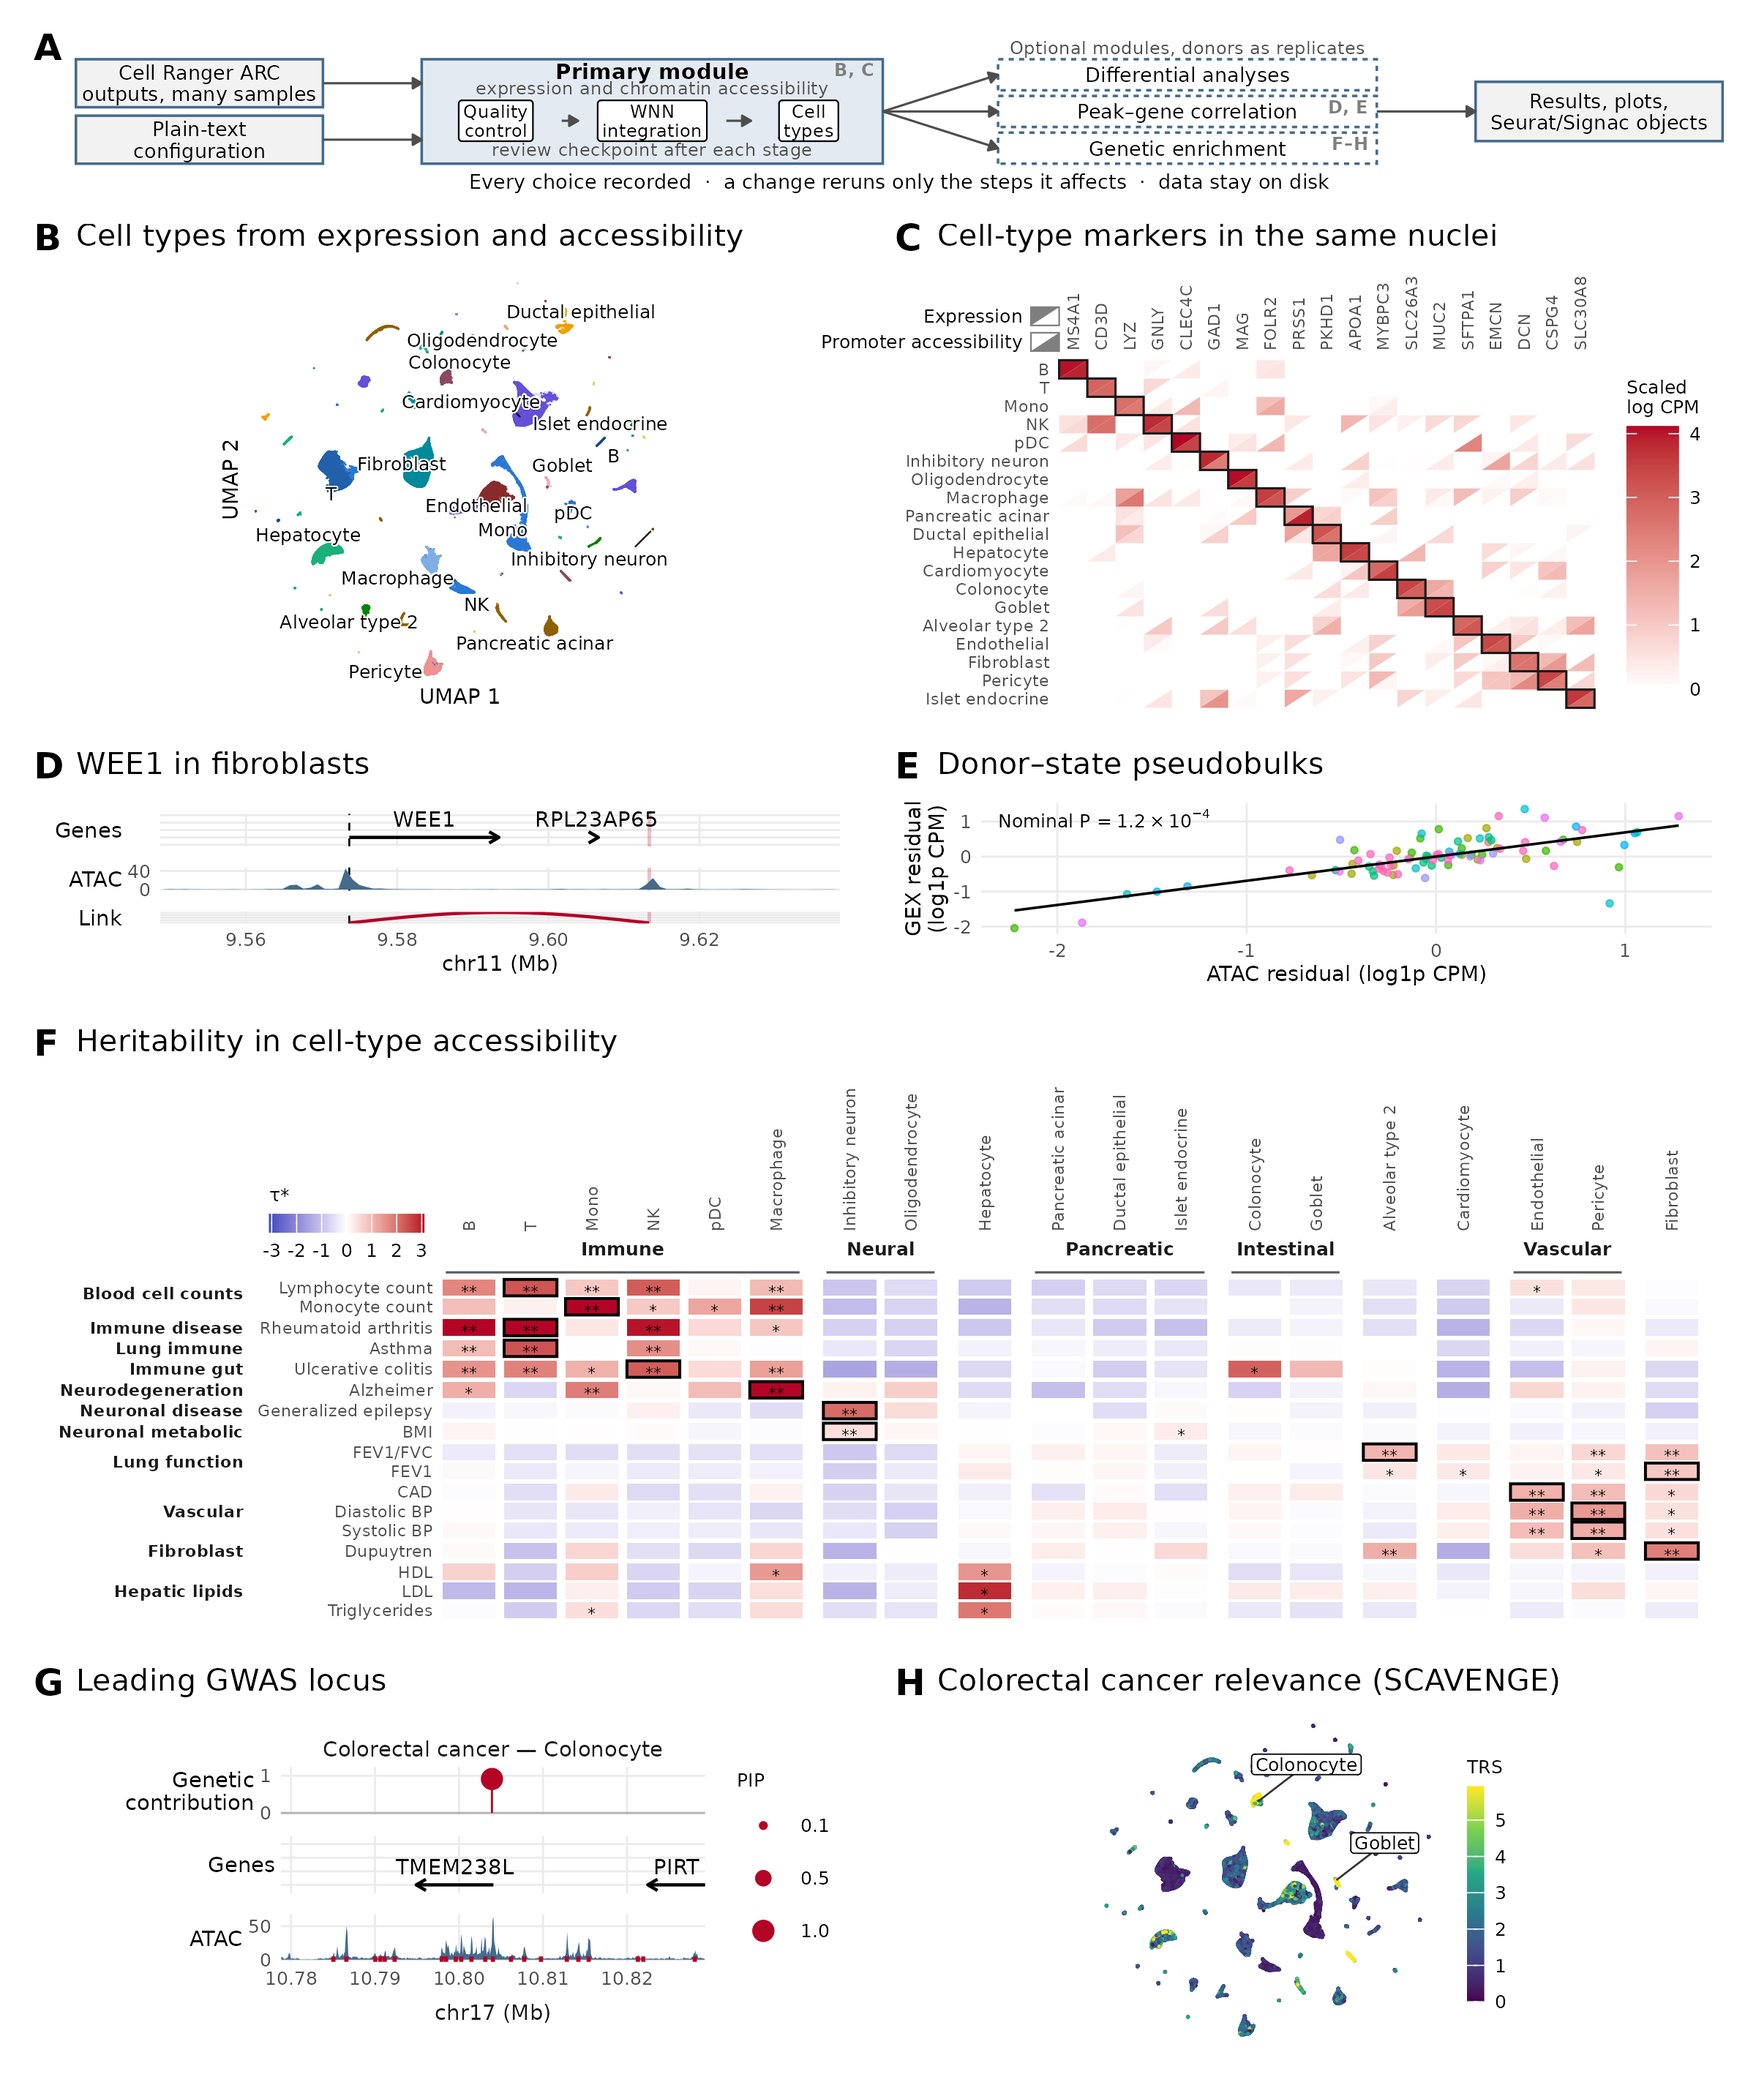
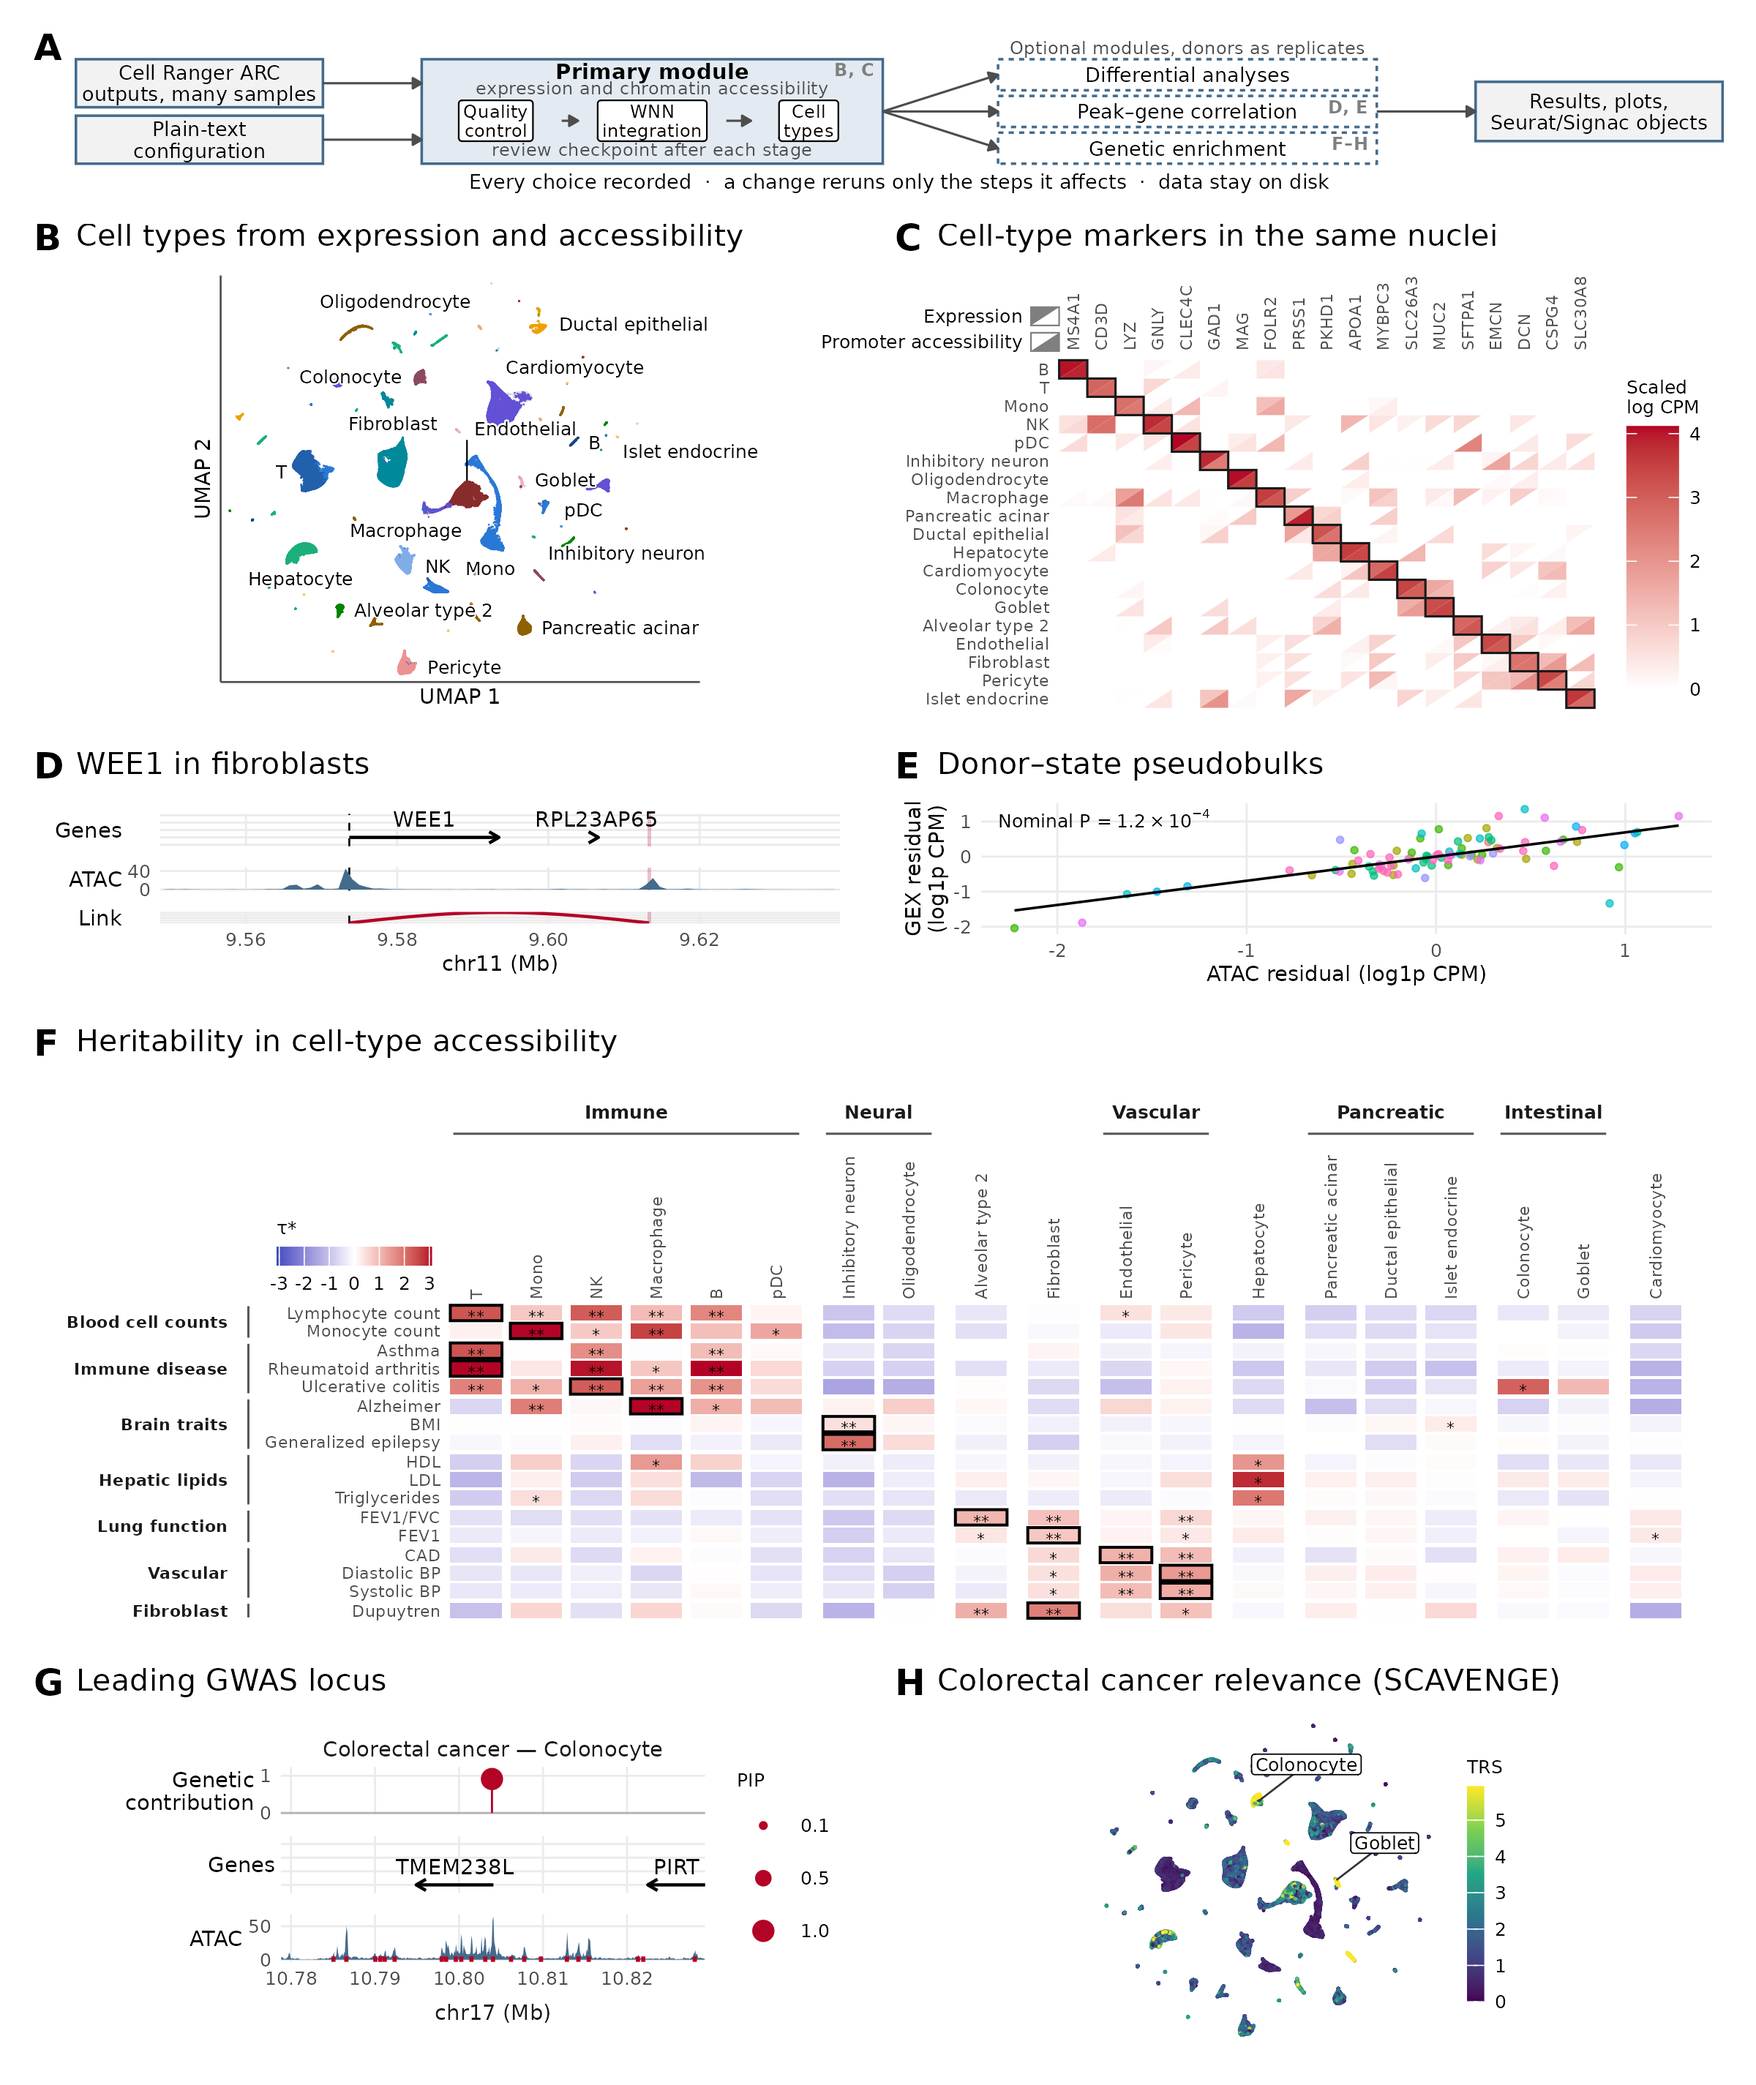
Place Figure 1 labels by island and order the trait grids by anchor
- B: each cell-type label sits on or beside its main island, the
  connected island where the cell type is the majority and that holds
  most of its nuclei. A deterministic placement keeps labels off other
  islands, other labels and leader lines, and draws a leader line only
  for the few labels that move further out. The axis titles sit next to
  short axis lines outside the data area.
- F, S5 and S6: the configured immune and brain trait categories are
  bundled into "Immune disease" and "Brain traits", and the categories
  keep a fixed row order. Compartments and their cell types follow the
  first anchor they hold, row by row, so the anchors step down from the
  top left, with unanchored compartments last. A header names each
  compartment in bold above a line over its columns, above the
  cell-type names, and a side column names each category in bold beside
  a line along its rows, left of the study names.

contained_target_breaking: figure_1_panel_UMAP.mixed_human_31x, figure_1_panel_heritability.mixed_human_31x, figure_1_plot.mixed_human_31x, figure_1.mixed_human_31x, supplementary_figure_S5.mixed_human_31x, supplementary_figure_S6.mixed_human_31x

diff --git a/pipeline_manuscript_figures/README.md b/pipeline_manuscript_figures/README.md
@@ -91,9 +91,10 @@ column names 5.5 pt; other text 6 pt.
 - **A:** a left-to-right diagram of multiomeR: inputs, the primary module's
   stages, the optional modules, outputs and the key ideas. Grey letters name the
   panels that show each module's outputs.
-- **B:** the WNN UMAP coloured by cell type in shades of its compartment, with
-  each label at the middle of its cell type's most populated cell of a coarse
-  grid, since a cell type from several tissues forms several islands.
+- **B:** the WNN UMAP coloured by cell type in shades of its compartment. Each
+  label sits on or beside its cell type's main island, the connected island that
+  holds most of its nuclei, since a cell type from several tissues forms several
+  islands; a leader line marks the few labels that had to move further out.
 - **C:** for each WNN cell type, the configured marker gene whose expression
   and promoter accessibility, in cell-type pseudobulks summed over donors and
   scaled across cell types, are most specific to it. Markers and cell types run
@@ -115,13 +116,16 @@ column names 5.5 pt; other text 6 pt.
   with unclipped scores and the cell types enriched for it labelled.
 
 Figure 1F and Supplementary Figures S5 and S6 share one grid of studies (rows)
-and assigned cell types (columns). Cell types keep their configured order within
-compartments that the figure code defines for this aggregation. Each
-compartment of several cell types is named in bold above a bracket, between the
-tiles and the cell-type names. Studies are grouped by their configured trait
-category. Each study's anchor, its largest value at q < 0.05, is boxed, and
-studies and categories follow the column of their anchor, so the anchors step
-down and to the right; studies without one come last. Stars mark P < 0.05 (\*)
+and assigned cell types (columns). Studies are grouped in a fixed order of
+trait categories, which bundles the configured immune and brain categories,
+each named in bold beside a line along its rows, left of the study names. Cell
+types are grouped in compartments that the figure code defines for this
+aggregation, each compartment of several cell types named in bold above a line
+over its columns, above the cell-type names. Each study's anchor, its largest
+value at q < 0.05, is boxed. Compartments and their cell types follow the first
+anchor they hold, row by row, so the anchors step down from the top left; then
+come those with only other values at q < 0.05, and last the rest, in their
+default order. Stars mark P < 0.05 (\*)
 and q < 0.05 (\*\*). S5 shows chromVAR deviations and F tau*, each clipped
 symmetrically at the 99th percentile of its absolute values; S6 shows S-LDSC
 enrichment on the module's scale around 1.
